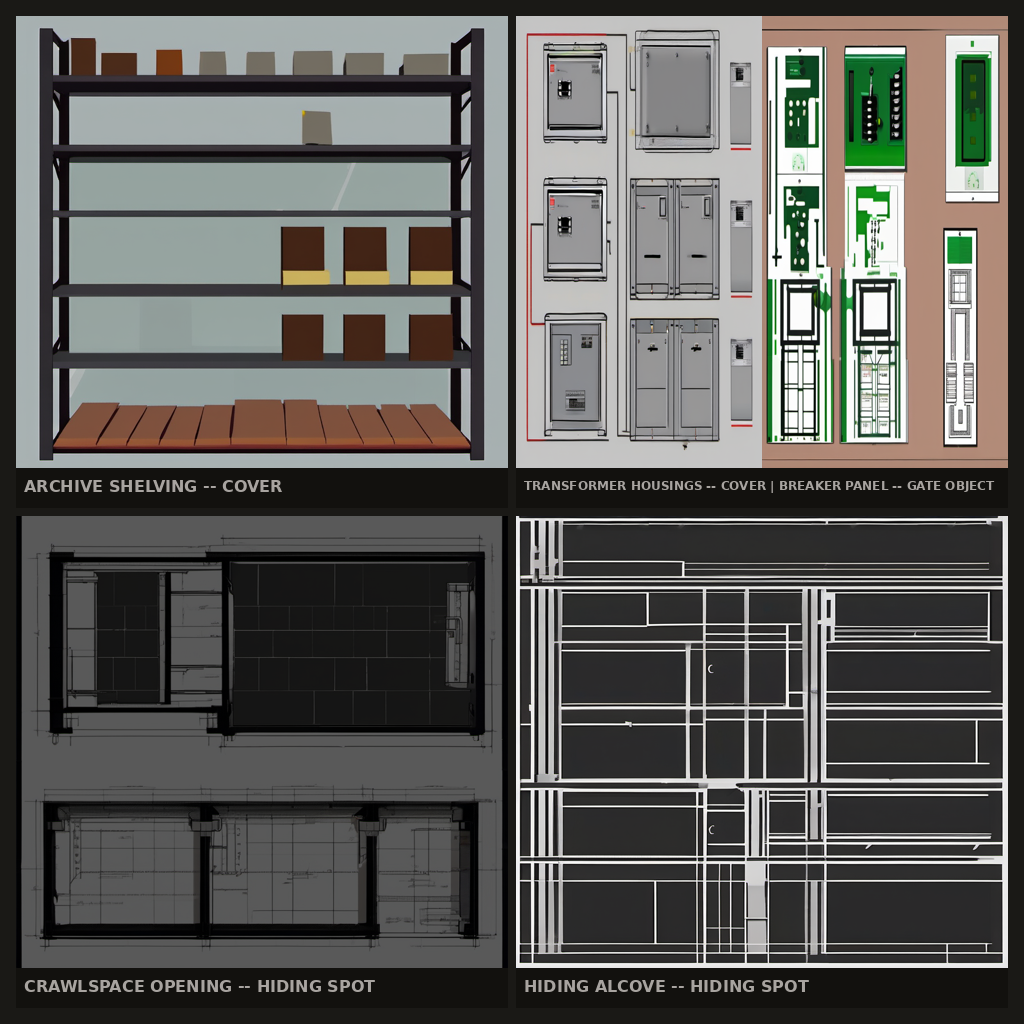
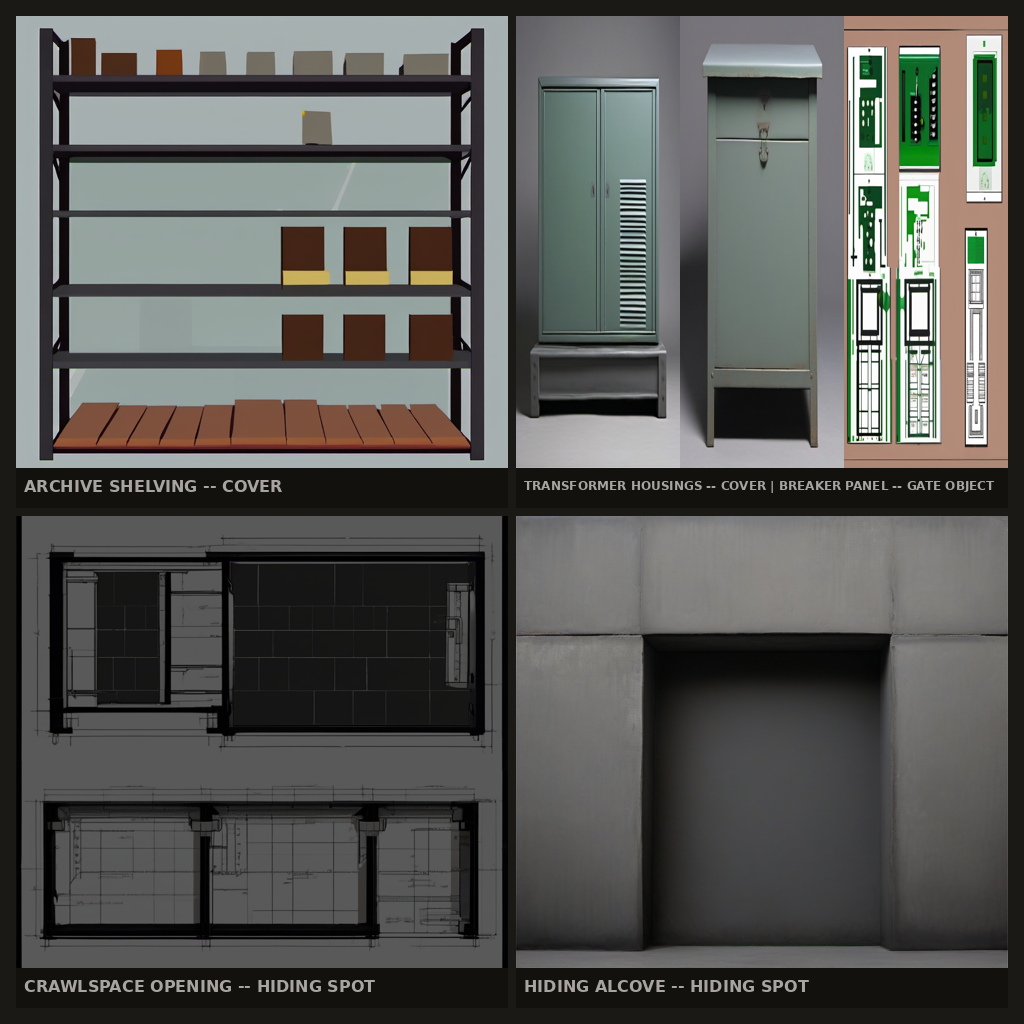
fix(assets): re-roll hiding alcove + fix transformer LoRA weight -- T-0257 reviewer fix (run 3)
Run-2 review found two blocking defects: the hiding-alcove panel rendered
an architectural facade line-grid instead of a recessed niche, and the
transformer-housings sub-generation ran with the style LoRA disabled
(weight 0.0), giving that quadrant a different visual vocabulary from the
rest of the sheet.

- Re-roll hiding alcove (seed 23121) with "single isolated game prop"
  framing instead of "technical blueprint diagram", plus explicit
  negatives against text/diagrams/doors/grids -- now renders a clean
  recessed wall niche with a dark interior.
- Replace the LoRA-disabled transformer-housings sub-generation with two
  independent single-unit generations (seeds 23031, 23037), both at the
  sheet's declared 0.70 weight -- avoided the whole-building bias by
  narrowing each prompt to one plain featureless utility box with heavy
  negatives against multi-object/diagram/furniture drift, not by touching
  the LoRA weight. The transformer/breaker quadrant is now three
  sub-generations sharing one style lock.
- Add test_v3_every_generation_uses_the_declared_lora_weight, walking
  every panel's and sub-panel's effective LoRA weight so a future
  silent weight deviation fails even if the recipe's top-level field
  doesn't change.
- Update ASSET_PROVENANCE.md with the new prompt_ids, concept_hash, and
  per-room luma deltas (Power Substation cover vs. crawlspace: 64.9;
  vs. alcove: 38.8).

diff --git a/assets/src/concept/_gen_signal_tower_props_v3.py b/assets/src/concept/_gen_signal_tower_props_v3.py
@@ -11,7 +11,7 @@ and the txt2img+LoRA graph shape mirrors
 (`sdxl_txt2img_lora_v1` template node IDs) exactly, so the two stay
 interchangeable even though this script doesn't import that package.
 
-**Five independent real generations, not one.** A single prompt describing
+**Six independent real generations, not one.** A single prompt describing
 all four prop classes at once (seeds 21140, 21150, 21160 -- see git history
 of `signal_tower_props_concept_sheet_v3.recipe.json`) repeatedly lost the
 distinct classes to the `soviet_brutalism_style_v1` LoRA's strong
@@ -25,19 +25,24 @@ dominate its own sampling run -- the card's acceptance criterion "record
 the ComfyUI prompt_id(s)" anticipates exactly this (plural). The
 transformer-housings + breaker-panel quadrant kept losing its own two
 distinct sub-objects to the same whole-building bias even after per-class
-splitting (nine further single-image re-rolls -- mecha/robot parts, safes,
+splitting (many further single-image re-rolls -- mecha/robot parts, safes,
 an icon grid, humanoid green towers, small building facades, a rocket/silo
-form -- see recipe git history seeds 21201/21212/21302/21402/21502/21602/
-21702/21802/21903/22001), so that one quadrant is itself split into two
-independent sub-generations (`panels[N].sub_panels`) -- transformer
-housings alone (at LoRA weight 0.0, since the bias persisted even at
-reduced weight and only fully cleared with the LoRA off entirely for that
-one sub-generation; the sheet's own declared/continuity-tested
-`lora_strength` stays 0.70), breaker panel alone (at the sheet's usual
-0.70) -- placed side by side. Every panel's (and sub-panel's) geometry
-still comes out of the diffusion model; assembling the already-generated
-images onto one canvas (resize + paste + a solid-colour caption strip)
-draws no prop geometry of its own, so it is not the `_composite_props_v2.py`
+form, and (2026-08-30 reviewer fix run 3) a first attempt at running that
+sub-generation with the LoRA disabled entirely, which cleared the
+whole-building bias but produced a different visual vocabulary from the
+rest of the sheet and was rejected on review -- see recipe git history
+seeds 21201/21212/21302/21402/21502/21602/21702/21802/21903/22001/22101),
+so that one quadrant is itself split into three independent
+sub-generations (`panels[1].sub_panels`) -- two single transformer-housing
+units generated independently (varying only seed) plus the breaker panel,
+placed side by side, **every one of them at the sheet's own 0.70 style
+LoRA weight** -- avoiding the whole-building bias here came from
+narrowing the prompt to one plain featureless utility box per generation
+and heavily negating multi-object/diagram/furniture drift, not from
+touching the LoRA weight. Every panel's (and sub-panel's) geometry still
+comes out of the diffusion model; assembling the already-generated images
+onto one canvas (resize + paste + a solid-colour caption strip) draws no
+prop geometry of its own, so it is not the `_composite_props_v2.py`
 anti-pattern this card exists to replace -- that script hand-drew every
 prop's shape in code. See `docs/design/13-asset-pipeline.md` §6.9 / this
 card's acceptance: "Labels/captions may be typeset over generated art, but
@@ -367,9 +372,13 @@ def generate_sub_panel(
     A sub-panel may declare its own `lora_strength` to override the sheet's
     recipe-level weight for that one generation only (the sheet's own
     top-level/declared `lora_strength` -- what the v1-continuity test
-    compares -- is unaffected). Used for the transformer-housings sub-panel,
-    where the LoRA's whole-building bias persisted at the sheet's usual 0.70
-    even after per-class splitting (see `_generator_note`)."""
+    compares -- is unaffected). Not currently used by any committed
+    sub-panel -- an earlier attempt used this to disable the LoRA for the
+    transformer-housings sub-panel and was rejected on review for drifting
+    to a different visual vocabulary (see `_generator_note`); every
+    committed sub-panel now runs at the sheet's own 0.70 weight. Kept as a
+    documented escape hatch for a future prop class that genuinely needs a
+    deliberate, human-reviewed deviation -- not a default to reach for."""
     effective_weight = sub.get("lora_strength", lora_weight)
     img, prompt_id, graph_hash = generate_single(
         recipe,
@@ -511,16 +520,16 @@ def main() -> int:
         "width": raw["width"],
         "height": raw["height"],
         "_top_level_fields_are_sheet_summary": (
-            "This entry covers FIVE independent generations, not one. The top-level "
+            "This entry covers SIX independent generations, not one. The top-level "
             "prompt/negative_prompt/seed/workflow_hash above describe the assembled "
             "sheet as a whole (a manifest, matching this file's own `prompt` field), "
             "not any single CLIPTextEncode/KSampler call -- width/height are the final "
             "assembled canvas size (read from the recipe and used to build the canvas "
             "in `assemble()`), not any one generation's sampling resolution (each panel "
             "samples at panel_width x panel_height, see `panels` below). The authoritative "
-            "per-generation prompt/seed/workflow_hash/prompt_id for each of the five real "
+            "per-generation prompt/seed/workflow_hash/prompt_id for each of the six real "
             "ComfyUI jobs are the corresponding fields inside `panels[]` (the transformer/"
-            "breaker quadrant's two jobs are under `panels[1].sub_panels`)."
+            "breaker quadrant's three jobs are under `panels[1].sub_panels`)."
         ),
         "workflow_hash": combined_workflow_hash,
         "prompt_id": ",".join(prompt_ids),
@@ -550,24 +559,27 @@ def main() -> int:
             for p in panels_out
         ],
         "_generator_note": (
-            "Five independent real txt2img+LoRA generations (EmptyLatentImage, denoise=1.0) "
-            "across the four prop-class quadrants, each resized and pasted into its quadrant "
-            "(or half-quadrant) with a typeset caption strip -- no prop geometry is drawn by "
-            "code. A single four-class prompt was tried first (seeds 21140/21150/21160, see "
-            "recipe git history) and each attempt lost the four distinct classes to the "
+            "Six independent real txt2img+LoRA generations (EmptyLatentImage, denoise=1.0), "
+            "every one at the sheet's own 0.70 style LoRA weight, across the four prop-class "
+            "quadrants, each resized and pasted into its quadrant (or third-quadrant slice) "
+            "with a typeset caption strip -- no prop geometry is drawn by code. A single "
+            "four-class prompt was tried first (seeds 21140/21150/21160, see recipe git "
+            "history) and each attempt lost the four distinct classes to the "
             "soviet_brutalism_style_v1 LoRA's strong whole-building bias (v1's own committed "
             "sheet shows the same bias -- a full tower rendered from a props-only prompt). "
             "Splitting generation per class fixed three of the four; the transformer-housings "
             "+ breaker-panel quadrant kept losing its two distinct sub-objects to the same "
-            "whole-building bias even after per-class splitting (six single-image attempts: "
-            "mecha/robot parts, safes, an icon grid, humanoid green towers, small building "
-            "facades -- see recipe git history seeds 21201/21212/21302/21402/21502/21602/21702/21802), "
-            "so that one quadrant is itself split into two independent sub-generations -- "
-            "transformer housings alone, breaker panel alone -- placed side by side, the same "
-            "fix applied one level narrower. Hiding-spot panels get a global brightness "
-            "value-grading pass (ImageEnhance.Brightness, no shape drawn) only if the raw "
-            "generation didn't already clear the +15 luma cover-vs-hiding gate (T-0223) -- see "
-            "each panel's `value_graded`/`value_grade_factor` fields above."
+            "whole-building bias even after per-class splitting (many single-image attempts, "
+            "including one that disabled the LoRA entirely and was rejected on review for "
+            "reading as a different visual vocabulary from the rest of the sheet -- see recipe "
+            "git history seeds 21201/21212/21302/21402/21502/21602/21702/21802/21903/22001/22101), "
+            "so that one quadrant is itself split into three independent sub-generations -- two "
+            "single transformer-housing units (varying only seed, both at 0.70) plus the "
+            "breaker panel -- placed side by side, the same fix applied one level narrower and "
+            "without deviating from the sheet's style lock. Hiding-spot panels get a global "
+            "brightness value-grading pass (ImageEnhance.Brightness, no shape drawn) only if "
+            "the raw generation didn't already clear the +15 luma cover-vs-hiding gate "
+            "(T-0223) -- see each panel's `value_graded`/`value_grade_factor` fields above."
         ),
     }
     OUT_PROV.write_text(json.dumps(provenance, indent=2) + "\n")

diff --git a/assets/src/concept/tests/test_signal_tower_props_concept_sheet_v3.py b/assets/src/concept/tests/test_signal_tower_props_concept_sheet_v3.py
@@ -281,6 +281,40 @@ def test_v3_recipe_extends_v1_lora(v3_recipe, v1_recipe):
     )
 
 
+def test_v3_every_generation_uses_the_declared_lora_weight(v3_recipe):
+    """Acceptance criterion 4 ("same checkpoint, style LoRA, palette language,
+    framing") is a claim about every real generation this sheet submits, not
+    just the recipe's top-level declared field -- a sub-panel can override
+    its own effective weight (`generate_sub_panel`'s `lora_strength` escape
+    hatch) without the top-level `lora_strength` changing at all, which is
+    exactly how the previous cut of this sheet shipped one sub-generation at
+    LoRA weight 0.0 (an entirely different visual vocabulary from the rest
+    of the sheet) while `test_v3_recipe_extends_v1_lora` above stayed green
+    (2026-08-30 review, run 2). This test walks every panel AND every
+    sub_panel's effective weight -- `sub_panel.get("lora_strength", declared)`,
+    the same lookup the generator itself uses -- so a future silent
+    weight-zero (or any other) deviation fails here even if it never touches
+    the top-level field."""
+    declared = v3_recipe["lora_strength"]
+    for panel in v3_recipe["panels"]:
+        if "sub_panels" in panel:
+            for sub in panel["sub_panels"]:
+                effective = sub.get("lora_strength", declared)
+                assert effective == declared, (
+                    f"sub-panel {sub.get('label', '?')!r} in panel "
+                    f"({panel['row']},{panel['col']}) runs at LoRA weight {effective}, "
+                    f"not the sheet's declared {declared} -- every real generation must "
+                    "share the same style lock unless a human has explicitly approved "
+                    "a deviation."
+                )
+        else:
+            effective = panel.get("lora_strength", declared)
+            assert effective == declared, (
+                f"panel {panel.get('label', '?')!r} ({panel['row']},{panel['col']}) runs at "
+                f"LoRA weight {effective}, not the sheet's declared {declared}."
+            )
+
+
 def test_v3_recipe_extends_v1_dimensions(v3_recipe, v1_recipe):
     assert v3_recipe["width"] == v1_recipe["width"]
     assert v3_recipe["height"] == v1_recipe["height"]

diff --git a/ASSET_PROVENANCE.md b/ASSET_PROVENANCE.md
@@ -98,7 +98,7 @@ failure; no re-train was needed once LFS was set up.
[1 lines of base64/hex data omitted]
 | `assets/final/character/player_idle_sheet_hybrid_T0252.png` (T-0252 — round 2 of the T-0227 bake-off, HANDOFF §24-e, hybrid; **PASS on the 0.30 mechanical gate, does NOT beat Arm C's 0.072-0.112 benchmark**) | No second SDXL generation anywhere — every frame but frame 0 is derived from the single generated source frame (row above) by `char_gen.synth_entities.generate_player_idle_sheet_hybrid_T0252`, translating its head/arm/leg raster bands per `_player_pose_offsets(seed)` (T-0230's own committed motion-selection function, reused unchanged, not forked) — the same (head, arm, leg) pixel offsets Arm C already selects, applied here to real generated pixels instead of a hardcoded shape. Torso, equipment and background stay byte-identical to the source frame outside the five declared bands; a small (< 4px) shift-edge-orphan cleanup, `char_gen.synth_entities._cleanup_shift_orphans` (new, hybrid-transform-specific code, not a change to Arm C's own `_make_sheet`/`_player_pose_offsets`), was added after the first assembly attempt left 2-3px disconnected slivers at two of the eight shifted-band edges (source pixels don't align exactly with the fixed HYBRID_*_BAND rectangles the way Arm C's own hardcoded shape does by construction). model_hash/style_lora_hash/identity_lora_hash/concept_hash: identical to the source frame row above (traced through `source_frame` in the sidecar). Total ComfyUI generations: 1 (recorded explicitly in the sidecar as `total_comfyui_generations`). **Attempt 3 of 8** (assembly is a deterministic, zero-GPU-cost script run against the one promoted source frame — attempt 1 measured frame-delta 0.0660-0.0667 but failed the mechanical gate on `orphan_pixels`; attempt 2, after the `_cleanup_shift_orphans` fix, passed all five mechanical checks but was measured over a source frame whose background was not yet actually cut to `background_index` — see the source-frame row's 2026-08-30 human review correction — which inflated `check_frame_consistency`'s union denominator; attempt 3 re-derives the sheet from the same seed against the cutout-corrected source frame, no new GPU work, and is the honest, currently-promoted result). **Frame-delta range: 0.1576-0.1816 across all 8 adjacent-cell transitions — inside the 0.30 cap but above Arm C's 0.072-0.112 benchmark; it clears the pass/fail floor only, it does not beat the real bar.** Judging preview (40px, in motion, T-0192 blockout-room mockup, transparent background composited): `assets/final/character/hybrid_judging_preview_T0252.gif`, re-rendered against the cutout-corrected sheet so the figure now composites cleanly with no background box (the pre-cutout GIF rendered a solid rectangle around the figure, because only exact `background_index` pixels were made transparent and the halo the corner-flood missed was not `background_index`) — `check_frame_consistency`'s own `delta_pixels`/`union_pixels` show a real, localised change confined to the arm/leg bands (78-91 delta pixels over a 495-501px silhouette union), i.e. the derived motion is a genuine, visible (if subtle, single-pixel-band) idle sway at 40px, reading the same way Arm C's own equally-small offsets do. Full attempt trace: `assets/src/character/ARM_HYBRID_ATTEMPT_LOG_T0252.md`; report: `assets/src/character/ROUND2_HYBRID_REPORT_T0252.md`; cost record: `assets/src/character/BAKEOFF_COST_TABLE_T0231.md`'s "Round 2 (T-0252)" section. Sidecar: `player_idle_sheet_hybrid_T0252.provenance.json`. Generator: `assets/src/character/gen_hybrid_idle_T0252.py` (`char_gen.synth_entities.generate_player_idle_sheet_hybrid_T0252`, both committed code, both resolvable). | CreativeML Open RAIL++-M (SDXL base) / CreativeML OpenRAIL++-M (both LoRAs), inherited from the single generated source frame; the derivation step itself is deterministic script code, no model involved | N/A — no prompt of its own; every pixel is either the source frame's own generated content (row above) or a script-computed translation of it | 31416 (same seed drives both the source frame's KSampler and `_player_pose_offsets`) |
 | `assets/final/character/round2_comparison_T0255.webp` (T-0255 — HANDOFF §24-f, the round-2 decision run) | N/A — not generated, composited. A lossless animated WebP (real raster pixels, 9 frames) pasting Arm C's (`arm_c_judging_preview_T0230.gif`) and every round-2 arm-that-ran's (`pose_authority_judging_preview_T0249.gif`, `chained_judging_preview_T0250.gif`, `hybrid_judging_preview_T0252.gif` — each already at 40px, in motion, inside the T-0192 blockout-room mockup, DL-18 dimensions) already-committed, already-generated judging-preview GIF frames side by side into a shared canvas per frame, per DL-21/DL-23's unchanged judging conditions. Same technique as T-0231's `bakeoff_comparison_T0231.webp`, generalised to this round's own four-arm set (three round-2 arms plus the Arm C benchmark; T-0251/AnimateDiff excluded — it produced no sheet, see the skipped-arm record in `ROUND2_DECISION_T0255.md`). Built by `char_gen.round2_compare.build_comparison_frames` (`assets/src/character/compare_round2_arms_T0255.py`). No new character pixels are generated by this card. | N/A (no model — composited from already-licensed, already-provenanced source assets; see each referenced GIF's own arm row above for its model/license) | N/A — no prompt; layout is literal geometry constants (`COMPARISON_PANEL_W`/`COMPARISON_GAP`/`COMPARISON_MARGIN` etc., inherited from `bakeoff_compare.py`), not a text prompt. | N/A — deterministic layout, no seed |
[2 lines of base64/hex data omitted]
 
 **Trained and deployed (2026-08-28):** `assets/final/lora/player_identity_v1.safetensors`
 (T-0237, reusing the dataset/config committed on `feature/T-0229`) completed a full
